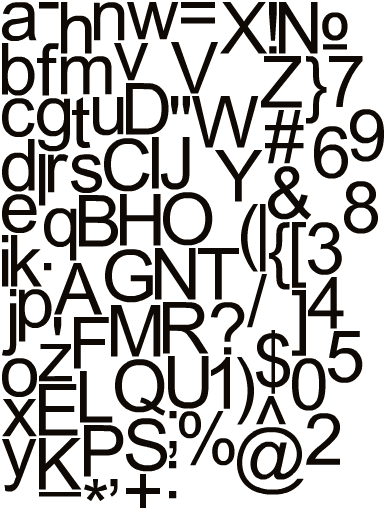
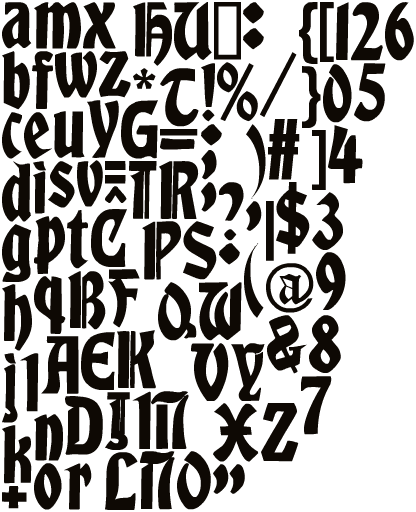
Updated the font

diff --git a/core/src/com/gdx/myFlappyBird/myFlappyBird.java b/core/src/com/gdx/myFlappyBird/myFlappyBird.java
@@ -112,11 +112,11 @@ public class myFlappyBird extends ApplicationAdapter {
 		scoreFont = new BitmapFont(Gdx.files.internal("font.fnt"), new TextureRegion(fontTexture), false);
 //		scoreFont = new BitmapFont();
 //		scoreFont.setColor(0.1f, 0.1f, 0.1f, 1.0f);
-//		scoreFont.setScale(5, 5);
+		scoreFont.setScale((float) 1.2);
 
 		highScoreFont = new BitmapFont(Gdx.files.internal("textFont.fnt"), new TextureRegion(textFontTexture), false);
 //		highScoreFont.setColor(1, 1, 1, 1);
-//		highScoreFont.setScale(4);
+		highScoreFont.setScale((float) 0.9);
 
 		screenWidth = Gdx.graphics.getWidth();
 		screenHeight = Gdx.graphics.getHeight();
@@ -419,10 +419,10 @@ public class myFlappyBird extends ApplicationAdapter {
 
 			highScoreFont.draw(batch, Integer.toString(getHighestScore()),
 					(float) (screenWidth / 2 + 1.1 * screenWidth / 8),
-					(float) (2.5 * screenHeight / 6));
+					(float) (2.4 * screenHeight / 6));
 			highScoreFont.draw(batch, Integer.toString(score),
 					(float) (screenWidth / 2 - 1.5 * screenWidth / 8),
-					(float) (2.5 * screenHeight / 6));
+					(float) (2.4 * screenHeight / 6));
 
 			
 				
